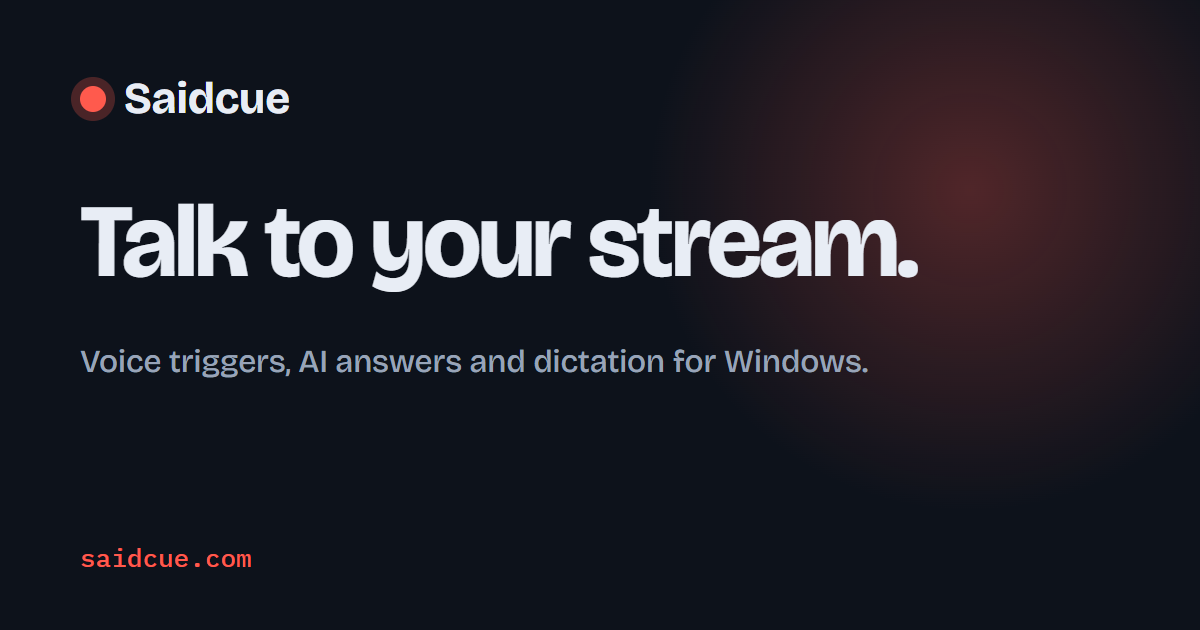
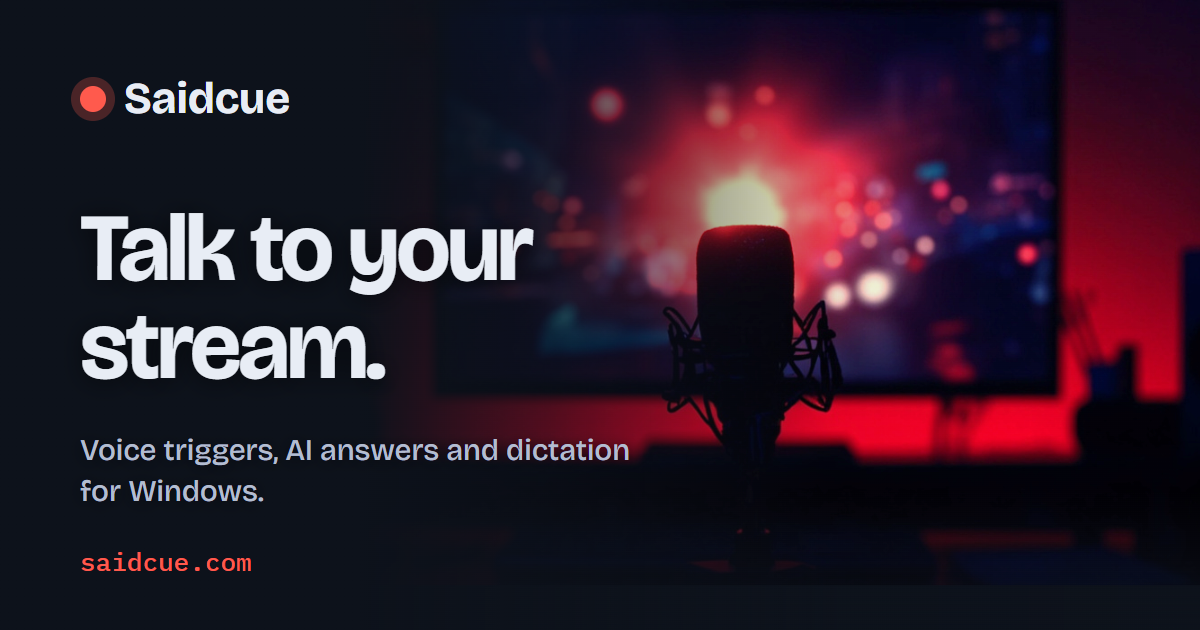
feat(landing): AI-generated background for social card, add image generation script

diff --git a/landing/tools/og-photo.html b/landing/tools/og-photo.html
@@ -1,0 +1,18 @@
+<!doctype html><meta charset="utf-8">
+<link rel="stylesheet" href="https://fonts.googleapis.com/css2?family=Bricolage+Grotesque:opsz,wght@12..96,500;12..96,700&family=IBM+Plex+Mono:wght@500&display=swap">
+<style>
+*{box-sizing:border-box;margin:0}
+body{width:1200px;height:630px;background:#0d121b;color:#e8edf5;font-family:"Bricolage Grotesque","Segoe UI",sans-serif;position:relative;overflow:hidden}
+.photo{position:absolute;right:-60px;top:-20px;width:1000px;height:563px;background:url(generated/bg-1.jpg) center/cover;transform:scale(1.15);filter:brightness(1.25) saturate(1.1);transform-origin:70% 50%}
+.fade{position:absolute;inset:0;background:linear-gradient(90deg,#0d121b 0%,#0d121b 30%,rgba(13,18,27,.7) 46%,rgba(13,18,27,.08) 70%,rgba(13,18,27,0) 100%),linear-gradient(0deg,rgba(13,18,27,.85) 0%,transparent 22%)}
+.brand{position:absolute;left:80px;top:72px;display:flex;align-items:center;gap:18px;font-weight:700;font-size:44px}
+.dot{width:26px;height:26px;border-radius:50%;background:#ff5a4d;box-shadow:0 0 0 9px rgba(255,90,77,.25)}
+h1{position:absolute;left:80px;top:200px;font-size:96px;line-height:1.02;font-weight:700;letter-spacing:-0.03em;width:620px;text-shadow:0 2px 24px rgba(0,0,0,.6)}
+p{position:absolute;left:80px;top:430px;width:560px;font-size:30px;line-height:1.35;color:#b3bdd0;font-weight:500;text-shadow:0 2px 16px rgba(0,0,0,.6)}
+.url{position:absolute;left:80px;bottom:52px;font-family:"IBM Plex Mono",Consolas,monospace;font-size:26px;color:#ff5a4d}
+</style>
+<div class="photo"></div><div class="fade"></div>
+<div class="brand"><span class="dot"></span>Saidcue</div>
+<h1>Talk to your stream.</h1>
+<p>Voice triggers, AI answers and dictation for Windows.</p>
+<div class="url">saidcue.com</div>
